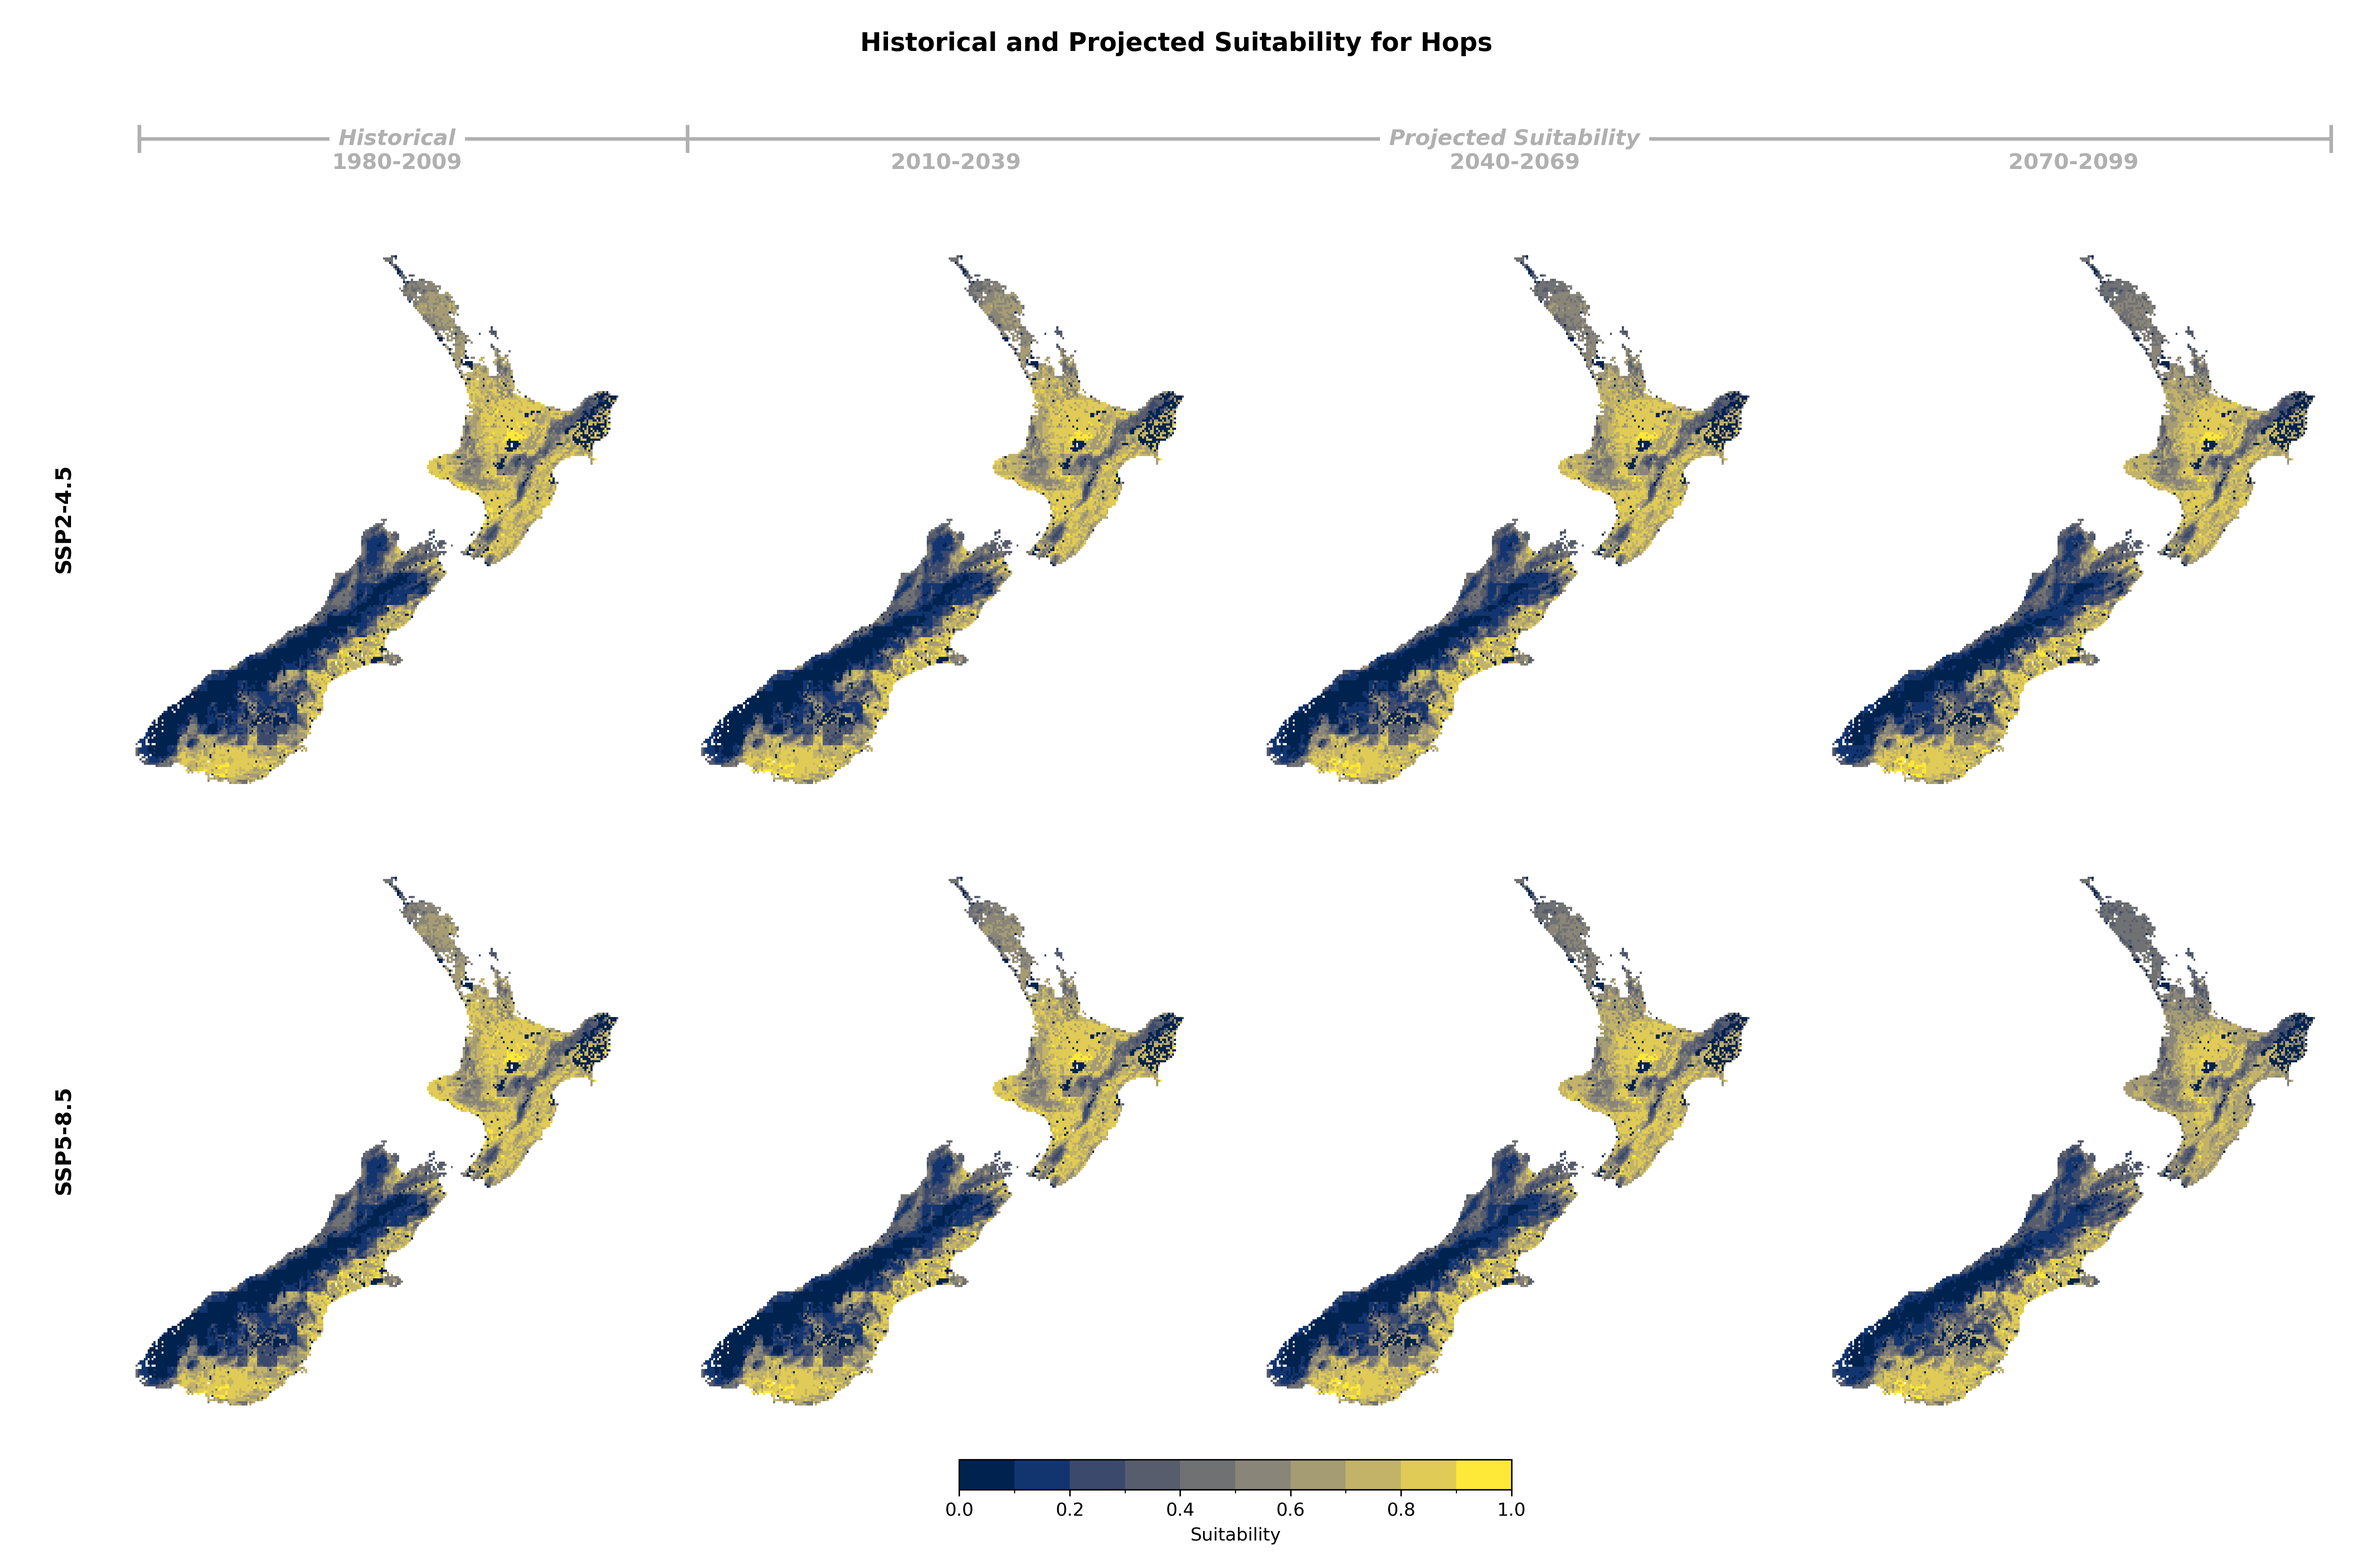
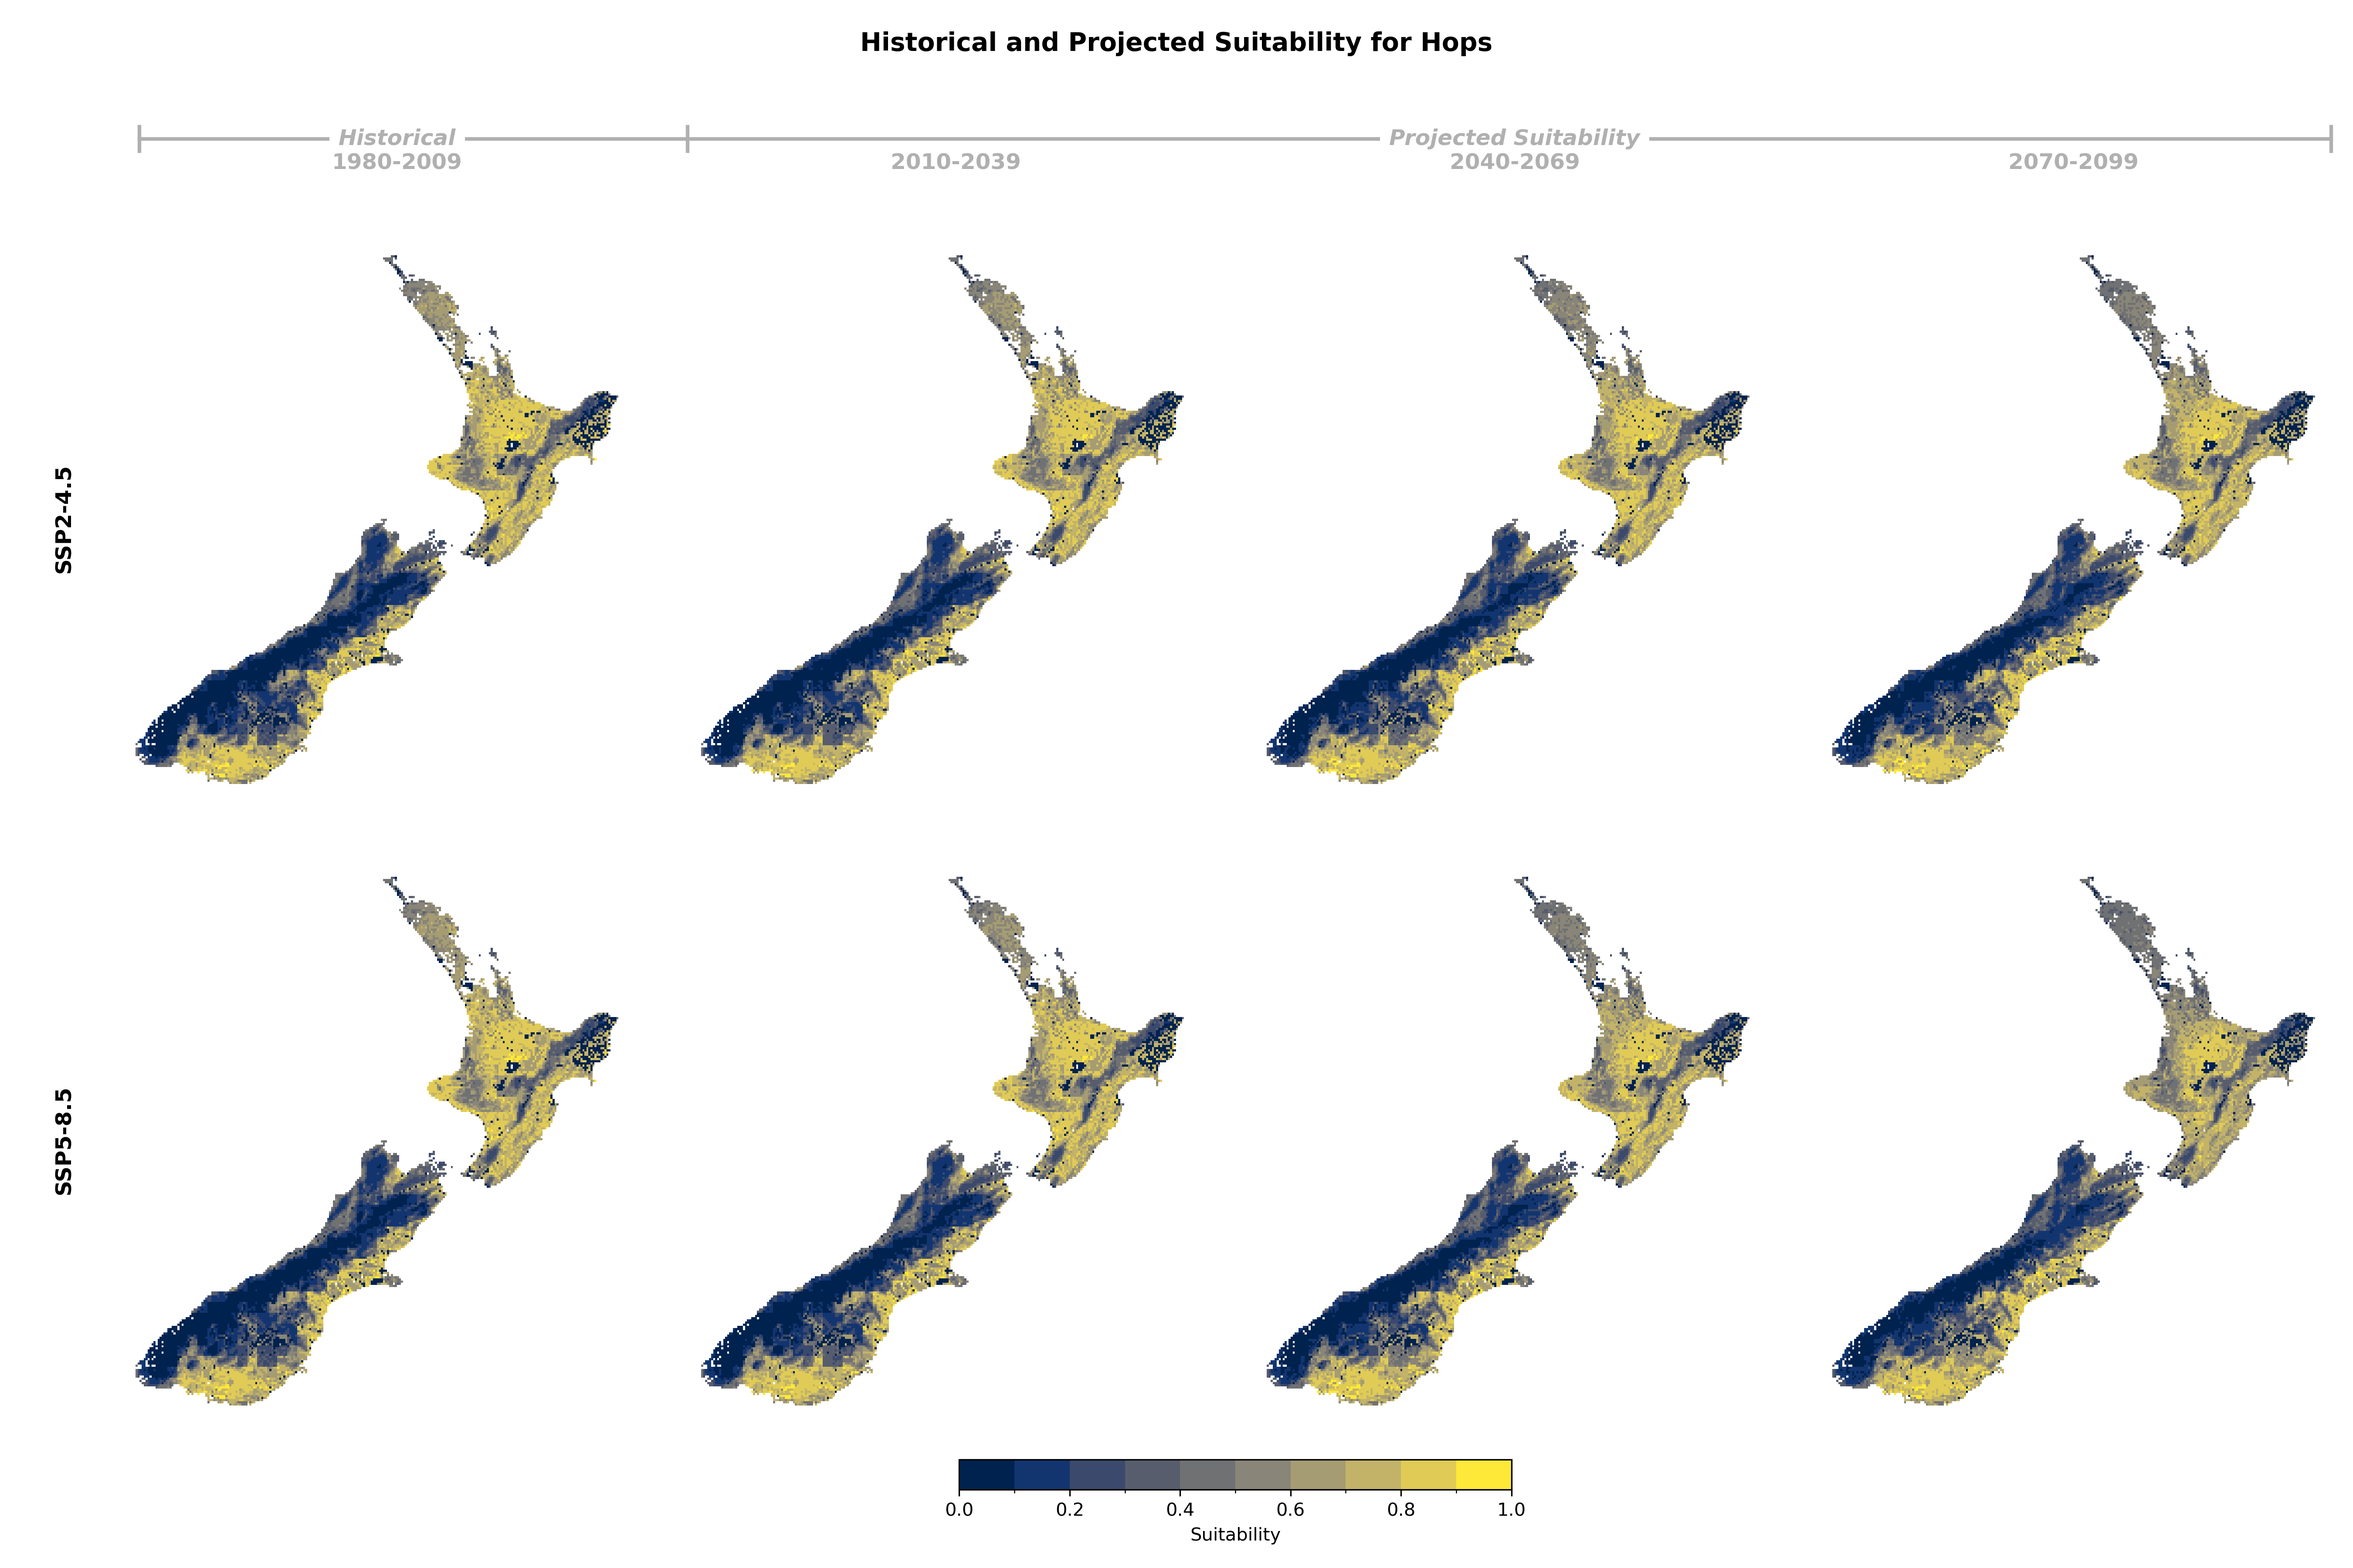
Add citrus 1km doc

diff --git a/docs/landuses/citrus.md b/docs/landuses/citrus.md
@@ -8,11 +8,11 @@ title: Citrus
 
 ### Suitability Values
 
-![](../_static/summary_figs/citrus_suitability_SSP245-SSP585_5km_v1.0.png)
+![](../_static/summary_figs/citrus_suitability_SSP245-SSP585_1km_v1.0.png)
 
 ### Suitability Changes
 
-![](../_static/summary_figs/citrus_suitability_change_SSP245-SSP585_5km_v1.0.png)
+![](../_static/summary_figs/citrus_suitability_change_SSP245-SSP585_1km_v1.0.png)
 
 :::
 
